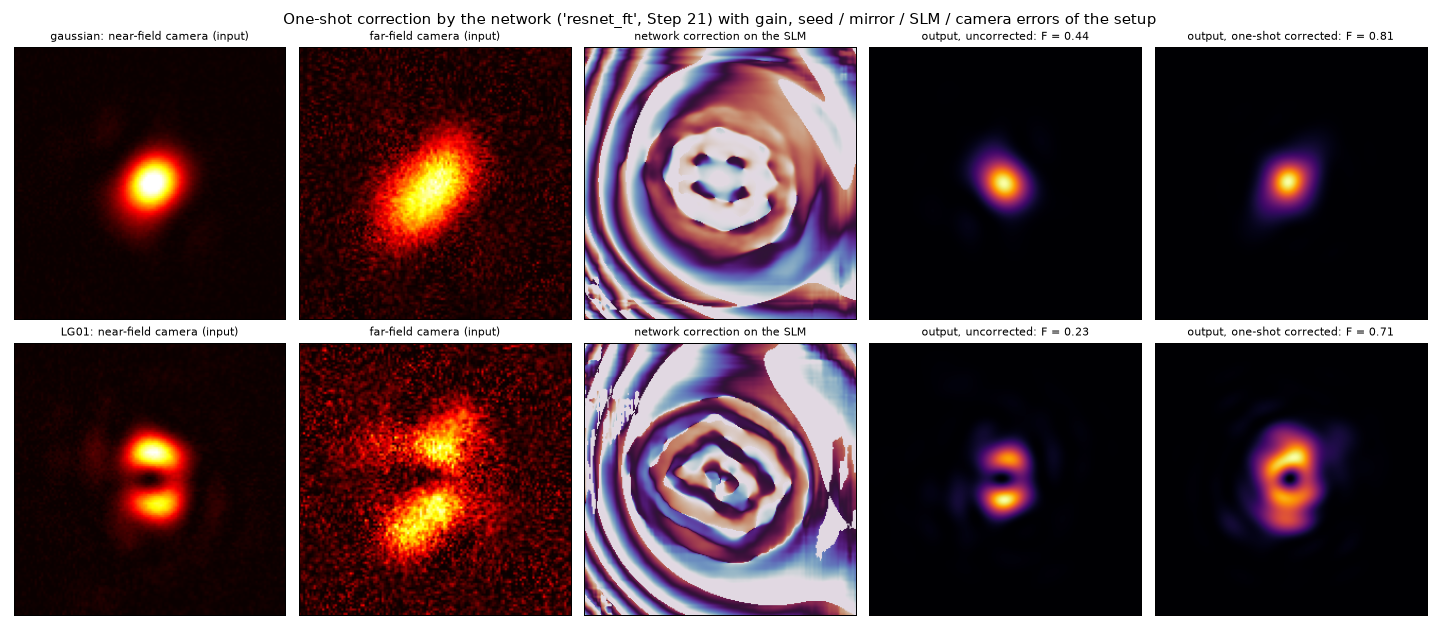
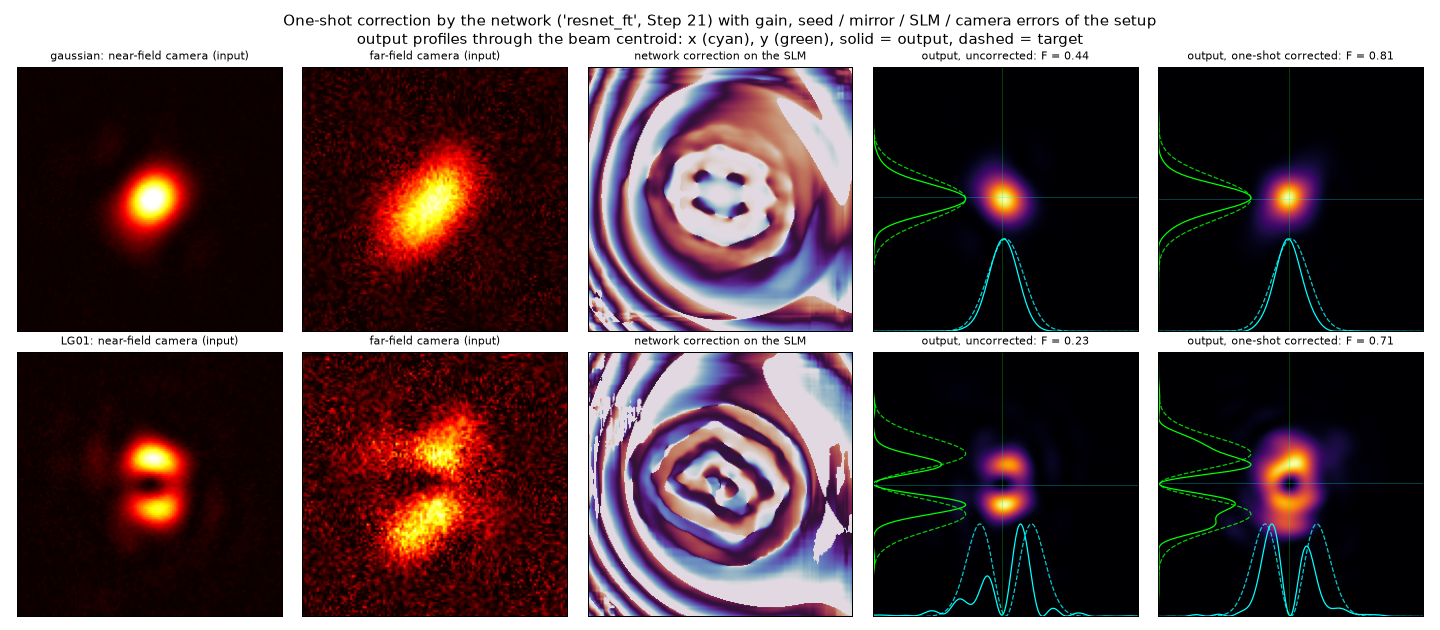
README figures: x and y intensity profiles through the beam centroid
Beam-path and correction figures now overlay the horizontal and vertical intensity profiles of
every beam, normalised to their peak, with the target profile dashed on the output panels.

diff --git a/Simulation_Code/readme_figures.py b/Simulation_Code/readme_figures.py
@@ -45,9 +45,25 @@ def crop_ext(a, half=4e-3):
     return a[c - k:c + k, c - k:c + k], [-half * MM, half * MM, -half * MM, half * MM]
 
 
-def show(ax, I, title, cmap="inferno", half=4e-3, **kw):
+def show(ax, I, title, cmap="inferno", half=4e-3, profiles=False, ref=None, **kw):
+    """Map of I (+-half). profiles: overlay the x and y intensity profiles through the beam
+    centroid, as a beam profiler shows them (x profile along the bottom, y profile along the
+    left edge, each normalised to its peak); ref: a second intensity (the target) drawn dashed
+    along the same lines."""
     img, e = crop_ext(I, half)
     im = ax.imshow(img, extent=e, origin="lower", cmap=cmap, **kw)
+    if profiles:
+        n = img.shape[0]
+        x = np.linspace(e[0], e[1], n)
+        w = img / img.sum()
+        cy = int(round((w.sum(axis=1) * np.arange(n)).sum())); cx = int(round((w.sum(axis=0) * np.arange(n)).sum()))
+        h = 0.35 * (e[1] - e[0])                                       # profile height: 35 % of the panel
+        for a, style, alpha in ((img, "-", 1.0),) + (((crop_ext(ref, half)[0], "--", 0.8),) if ref is not None else ()):
+            px, py = a[cy, :], a[:, cx]
+            ax.plot(x, e[2] + h * px / (px.max() + 1e-30), style, color="cyan", lw=1.0, alpha=alpha)
+            ax.plot(e[0] + h * py / (py.max() + 1e-30), x, style, color="lime", lw=1.0, alpha=alpha)
+        ax.axhline(x[cy], color="cyan", lw=0.4, alpha=0.5); ax.axvline(x[cx], color="lime", lw=0.4, alpha=0.5)
+        ax.set_xlim(e[0], e[1]); ax.set_ylim(e[2], e[3])
     ax.set_title(title, fontsize=9); ax.set_xticks([]); ax.set_yticks([])
     return im
 
@@ -90,20 +106,22 @@ def trace_snapshots(pattern, state):
 
 passes = (0, 2, 5, 9)
 rows = [("Gaussian", slm.flat(), "gaussian"), ("LG01 vortex", slm.vortex(1), "LG01")]
-fig, ax = plt.subplots(4, 7, figsize=(19, 11.5))
+fig, ax = plt.subplots(4, 7, figsize=(19, 12))
 r = 0
 for label, pat, tname in rows:
     for sname, state in (("nominal 300 W disk", st0), (f"random state, {p['P']:.0f} W", st)):
         b_slm, disk, out = trace_snapshots(pat, state)
         F = co.fidelity(out.field, sysm.targets[tname])
-        show(ax[r, 0], np.abs(b_slm.field) ** 2, f"{label}, {sname}\nafter the SLM")
+        show(ax[r, 0], np.abs(b_slm.field) ** 2, f"{label}, {sname}\nafter the SLM", profiles=True)
         for j, k in enumerate(passes):
-            show(ax[r, 1 + j], np.abs(disk[k].field) ** 2, f"on the disk, pass {k + 1}")
-        show(ax[r, 5], np.abs(out.field) ** 2, f"output, F = {F:.2f}", half=5e-3)
-        show(ax[r, 6], np.abs(sysm.targets[tname]) ** 2, "target", half=5e-3)
+            show(ax[r, 1 + j], np.abs(disk[k].field) ** 2, f"on the disk, pass {k + 1}", profiles=True)
+        show(ax[r, 5], np.abs(out.field) ** 2, f"output, F = {F:.2f} (target dashed)", half=5e-3, profiles=True,
+             ref=np.abs(sysm.targets[tname]) ** 2)
+        show(ax[r, 6], np.abs(sysm.targets[tname]) ** 2, "target", half=5e-3, profiles=True)
         r += 1
-fig.suptitle("Beam through the 10-pass amplifier (uncorrected: flat / vortex pattern on the SLM); intensity, +-4 mm (output +-5 mm)")
-fig.tight_layout(); fig.savefig(os.path.join(OUT, "beam_path.png"), dpi=90); plt.close(fig)
+fig.suptitle("Beam through the 10-pass amplifier (uncorrected: flat / vortex pattern on the SLM); intensity, +-4 mm (output +-5 mm)\n"
+             "profiles through the beam centroid: x (cyan, bottom), y (green, left), each normalised to its peak; dashed: target")
+fig.tight_layout(h_pad=2.2); fig.savefig(os.path.join(OUT, "beam_path.png"), dpi=90); plt.close(fig)
 
 # ---- one-shot network correction (full lab model: setup 0 nuisances, gain, LCOS, cameras) ---
 name = sys.argv[1] if len(sys.argv) > 1 else "resnet_ft"
@@ -124,10 +142,11 @@ for t_id, tname in enumerate(nd.TARGETS):
     ax[t_id, 0].imshow(near, cmap="hot"); ax[t_id, 0].set_title(f"{tname}: near-field camera (input)", fontsize=9)
     ax[t_id, 1].imshow(far, cmap="hot"); ax[t_id, 1].set_title("far-field camera (input)", fontsize=9)
     ax[t_id, 2].imshow(corr, cmap="twilight", vmin=-np.pi, vmax=np.pi); ax[t_id, 2].set_title("network correction on the SLM", fontsize=9)
-    show(ax[t_id, 3], np.abs(out0) ** 2, f"output, uncorrected: F = {co.fidelity(out0, tgt):.2f}", half=4e-3)
-    show(ax[t_id, 4], np.abs(out1) ** 2, f"output, one-shot corrected: F = {co.fidelity(out1, tgt):.2f}", half=4e-3)
+    show(ax[t_id, 3], np.abs(out0) ** 2, f"output, uncorrected: F = {co.fidelity(out0, tgt):.2f}", half=4e-3, profiles=True, ref=np.abs(tgt) ** 2)
+    show(ax[t_id, 4], np.abs(out1) ** 2, f"output, one-shot corrected: F = {co.fidelity(out1, tgt):.2f}", half=4e-3, profiles=True, ref=np.abs(tgt) ** 2)
     for aa in ax[t_id, :3]:
         aa.set_xticks([]); aa.set_yticks([])
-fig.suptitle(f"One-shot correction by the network ('{name}', Step 21) with gain, seed / mirror / SLM / camera errors of the setup")
+fig.suptitle(f"One-shot correction by the network ('{name}', Step 21) with gain, seed / mirror / SLM / camera errors of the setup\n"
+             "output profiles through the beam centroid: x (cyan), y (green), solid = output, dashed = target")
 fig.tight_layout(h_pad=2.5); fig.savefig(os.path.join(OUT, "correction.png"), dpi=90); plt.close(fig)
 print("saved", OUT)

diff --git a/README.md b/README.md
@@ -49,13 +49,14 @@ small-signal gain per reflection:
 **Beam examples.** A Gaussian and an LG01 vortex through the amplifier without correction. The vortex
 phase is imprinted by the SLM and the ring forms on the way to the disk. On the nominal disk the
 output is close to the target; the random disk state shears and splits it after 10 passes
-(F = field fidelity with the target):
+(F = field fidelity with the target). The curves are the x (cyan) and y (green) intensity profiles
+through the beam centroid, each normalised to its peak; dashed: the target:
 
 ![Beam through the amplifier](Results/readme/beam_path.png)
 
 **One-shot correction.** The same disk state with the imperfections of a lab setup. The network sees
 the two camera images (left), puts one phase pattern on the SLM (middle) and the output is corrected
-without iteration:
+without iteration (output profiles as above, dashed = target):
 
 ![One-shot network correction](Results/readme/correction.png)
 
